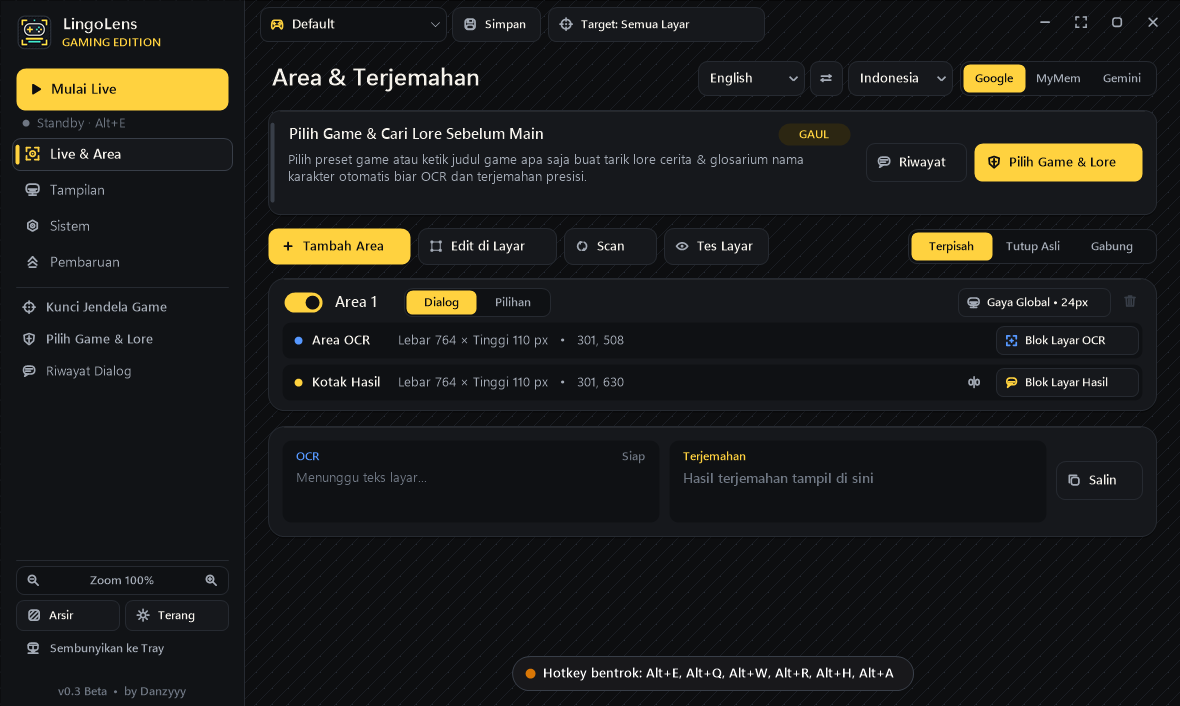
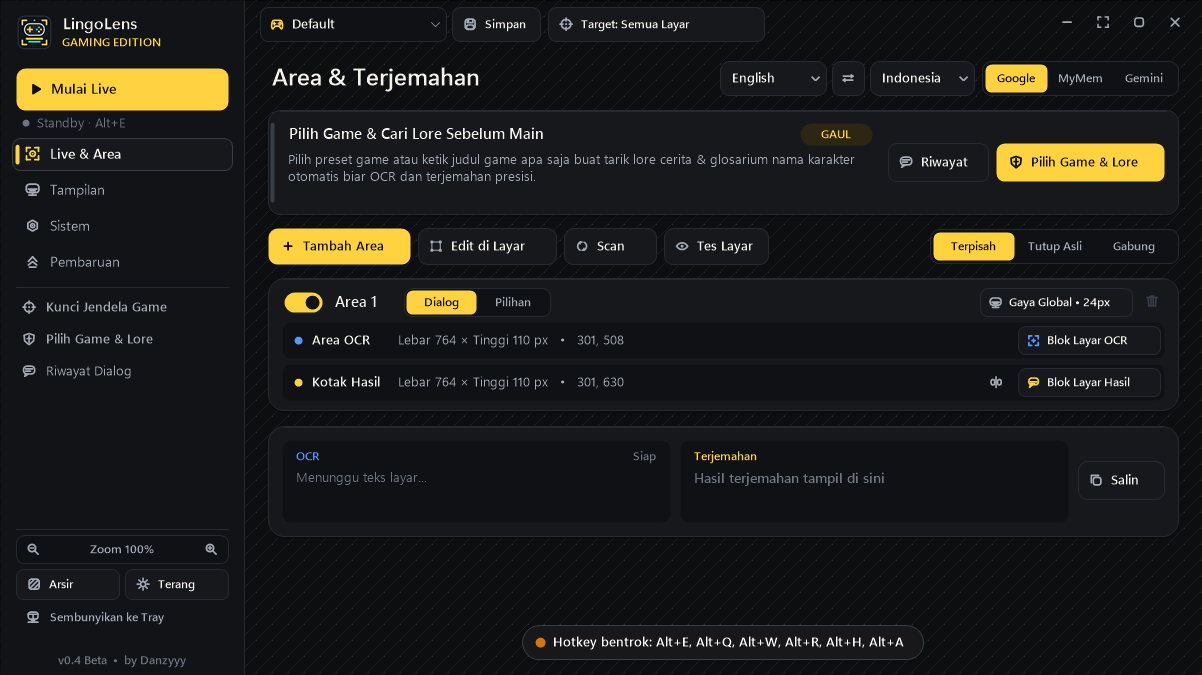
Fix 2K/4K responsive UI scaling and update UI version label to v0.4 Beta

diff --git a/src/MainWindow.cs b/src/MainWindow.cs
@@ -101,7 +101,7 @@ namespace TranslatorLive
         private readonly List<string> _fonts = new List<string>();
         private float _dpiScale = 1.0f;
 
-        private float Z { get { return Math.Max(0.80f, Math.Min(2.40f, _dpiScale * (_cfg.UiZoom / 100f))); } }
+        private float Z { get { return Math.Max(0.80f, Math.Min(2.65f, _dpiScale * (_cfg.UiZoom / 100f))); } }
         private float S(float v) { return (float)Math.Round(v * Z); }
         private RectangleF SR(float x, float y, float w, float h)
         {
@@ -111,12 +111,16 @@ namespace TranslatorLive
         public MainWindow(AppConfig cfg)
         {
             _cfg = cfg;
+            Rectangle scrInit = Screen.PrimaryScreen.WorkingArea;
             try
             {
                 uint sysDpi = Native.GetDpiForSystem();
                 if (sysDpi >= 96) _dpiScale = Math.Max(1.0f, Math.Min(2.25f, sysDpi / 96f));
             }
             catch { _dpiScale = 1.0f; }
+            // Auto resolution-aware scaling for 2K (2560px) and 4K (3840px) monitors running at 100% Windows DPI
+            if (scrInit.Width >= 3200 && _dpiScale < 1.45f) _dpiScale = 1.45f;
+            else if (scrInit.Width >= 2400 && _dpiScale < 1.18f) _dpiScale = 1.18f;
 
             if (_cfg.Areas.Count == 0)
             {
@@ -136,9 +140,8 @@ namespace TranslatorLive
             Text = "LingoLens — by Danzyyy";
             FormBorderStyle = FormBorderStyle.None;
             StartPosition = FormStartPosition.CenterScreen;
-            Rectangle scrInit = Screen.PrimaryScreen.WorkingArea;
-            int initW = Math.Min((int)Math.Round(1180 * _dpiScale), scrInit.Width * 92 / 100);
-            int initH = Math.Min((int)Math.Round(790 * _dpiScale), scrInit.Height * 92 / 100);
+            int initW = Math.Min((int)Math.Round(1240 * _dpiScale), scrInit.Width * 88 / 100);
+            int initH = Math.Min((int)Math.Round(810 * _dpiScale), scrInit.Height * 88 / 100);
             Size = new Size(Math.Max(860, initW), Math.Max(600, initH));
             MinimumSize = new Size((int)Math.Round(780 * _dpiScale), (int)Math.Round(540 * _dpiScale));
             DoubleBuffered = true;
@@ -935,7 +938,7 @@ namespace TranslatorLive
                     T("Sembunyikan ke Tray", "Minimize to Tray"), IconKind.Tray, fCap);
 
                 if (ch - (by + S(100f)) >= S(22f))
-                    Theme.DrawTextCenter(g, "v0.3 Beta  •  by Danzyyy", fCap, pal.TextMute, SR(S(16f), ch - S(26f), sideW - S(32f), S(22f)));
+                    Theme.DrawTextCenter(g, "v0.4 Beta  •  by Danzyyy", fCap, pal.TextMute, SR(S(16f), ch - S(26f), sideW - S(32f), S(22f)));
 
                 // 2. TOP WINDOW CHROME BAR
                 float wx = cw - S(10f);
@@ -996,7 +999,8 @@ namespace TranslatorLive
                 GraphicsState vpState = g.Save();
                 g.SetClip(vp);
 
-                float contentW = Math.Min(S(1120f), vp.Width - S(48f));
+                // Responsive content width: adapts cleanly from 1080p up to 2K/4K/ultrawide screens
+                float contentW = Math.Min(S(1760f), Math.Max(S(640f), vp.Width - S(48f)));
                 float cx = (float)Math.Round(vp.X + (vp.Width - contentW) * 0.5f);
                 float cy = (float)Math.Round(vp.Y + S(12f) - _scrollY);
 
@@ -1832,7 +1836,7 @@ namespace TranslatorLive
                 ? T("Tersedia Pembaruan: " + UpdateChecker.Info.LatestVersion + "!", "New Update Available: " + UpdateChecker.Info.LatestVersion + "!")
                 : (isChecking
                     ? T("Memeriksa Pembaruan ke GitHub...", "Checking for updates on GitHub...")
-                    : T("LingoLens v0.3 Beta — Versi Terbaru", "LingoLens v0.3 Beta — Latest Version"));
+                    : T("LingoLens v0.4 Beta — Versi Terbaru", "LingoLens v0.4 Beta — Latest Version"));
 
             string statusDesc = hasUp
                 ? T("Rilis resmi terbaru dari Danzyyy telah tersedia di GitHub. Klik tombol untuk mengunduh sekarang.",
@@ -1868,6 +1872,32 @@ namespace TranslatorLive
             }
 
             cy += chkH + S(16f);
+
+            // Card v0.4 Beta
+            RectangleF card4 = SR(x, cy, w, S(248f));
+            Theme.DrawCard(g, pal, card4, S(12f));
+
+            RectangleF vPill4 = SR(card4.X + S(18f), card4.Y + S(14f), S(86f), S(24f));
+            Theme.FillRR(g, vPill4, S(12f), pal.Accent);
+            Theme.DrawTextCenter(g, "v0.4 Beta", fCap, pal.AccentBtnText, vPill4);
+
+            string title4 = T("OCR Border Tipis di Background Putih, Anti-Flip-Flop, Screenshot Overlay & 2K/4K UI", "White-on-White Border OCR, Anti-Flip-Flop, Overlay Screenshot & 2K/4K UI");
+            string notes4 = _cfg.UiLang == "en"
+                ? "• Pass 4 Thin-Border Fill OCR (Morphological Closing) for white text with thin black outline on white/snow backgrounds.\n" +
+                  "• Lower latency (Smart Early-Exit Pass 1-4, 40ms fast-poll) + stronger Anti-Flip-Flop lock when background changes.\n" +
+                  "• Edge-case OCR: colored/neon subtitles, textured parchment, CJK furigana filter & auto-typewriter detection.\n" +
+                  "• Allow/Hide Result Overlay in Screenshots/OBS toggle + Dialog History export (.txt/.csv) + DPAPI key encryption.\n" +
+                  "• Responsive 2K/4K layout scaling, Per-Monitor DPI (WM_DPICHANGED), hotkey conflict alert & modular engine."
+                : "• Pass 4 OCR Border Tipis (Morphological Closing) untuk font putih + garis hitam tipis di background putih/salju.\n" +
+                  "• Latensi lebih cepat (Smart Early-Exit Pass 1-4, fast-poll 40ms) + kunci Anti-Flip-Flop lebih kuat saat background berubah.\n" +
+                  "• Edge-case OCR: teks warna/neon, kertas perkamen bertekstur, filter furigana CJK & auto-deteksi typewriter.\n" +
+                  "• Toggle Izinkan Screenshot/Rekam Overlay Hasil + Ekspor Riwayat Dialog (.txt/.csv) + enkripsi API Key DPAPI.\n" +
+                  "• Layout responsif layar 2K/4K, Per-Monitor DPI (WM_DPICHANGED), deteksi konflik hotkey & arsitektur modular.";
+
+            Theme.DrawTextLeft(g, title4, fBodyB, pal.Text, SR(card4.X + S(114f), card4.Y + S(14f), card4.Width - S(132f), S(24f)));
+            Theme.DrawTextWrap(g, notes4, fSm, pal.TextSub, SR(card4.X + S(18f), card4.Y + S(48f), card4.Width - S(36f), S(186f)));
+
+            cy += card4.Height + S(14f);
 
             // Card v0.3 Beta
             RectangleF card3 = SR(x, cy, w, S(268f));

diff --git a/src/UpdateChecker.cs b/src/UpdateChecker.cs
@@ -11,7 +11,7 @@ namespace TranslatorLive
     public class UpdateInfo
     {
         public bool HasUpdate = false;
-        public string CurrentVersion = "v0.3-beta";
+        public string CurrentVersion = UpdateChecker.CurrentVersion;
         public string LatestVersion = "";
         public string ReleaseName = "";
         public string ReleaseUrl = "https://github.com/danzyyy19/LingoLens/releases/latest";
@@ -46,7 +46,7 @@ namespace TranslatorLive
                 }
             }
             catch { }
-            return "v0.3-beta";
+            return "v0.4-beta";
         }
 
         private static readonly UpdateInfo _info = new UpdateInfo();

diff --git a/src/GameLoreService.cs b/src/GameLoreService.cs
@@ -511,7 +511,7 @@ namespace TranslatorLive
             HttpWebRequest req = (HttpWebRequest)WebRequest.Create(url);
             req.Timeout = timeoutMs;
             req.ReadWriteTimeout = timeoutMs;
-            req.UserAgent = "LingoLens/0.3 (GameLoreFetcher; Windows)";
+            req.UserAgent = "LingoLens/0.4 (GameLoreFetcher; Windows)";
             req.AutomaticDecompression = DecompressionMethods.GZip | DecompressionMethods.Deflate;
             using (HttpWebResponse res = (HttpWebResponse)req.GetResponse())
             using (StreamReader sr = new StreamReader(res.GetResponseStream(), Encoding.UTF8))
